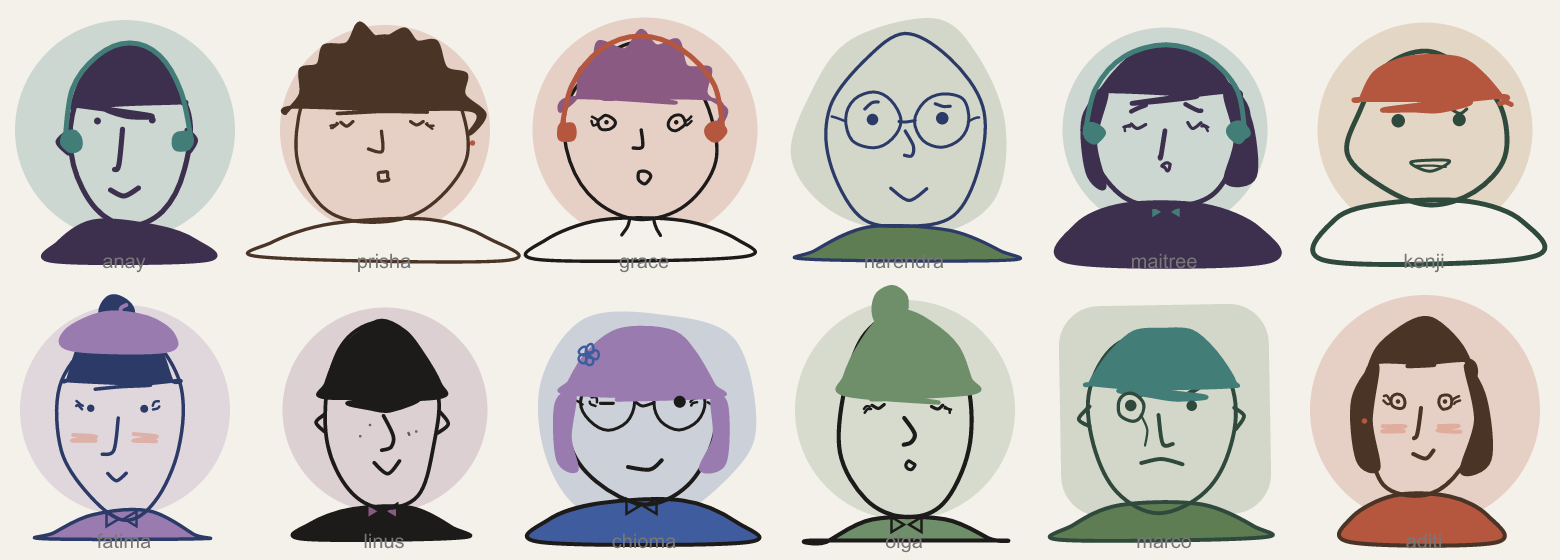
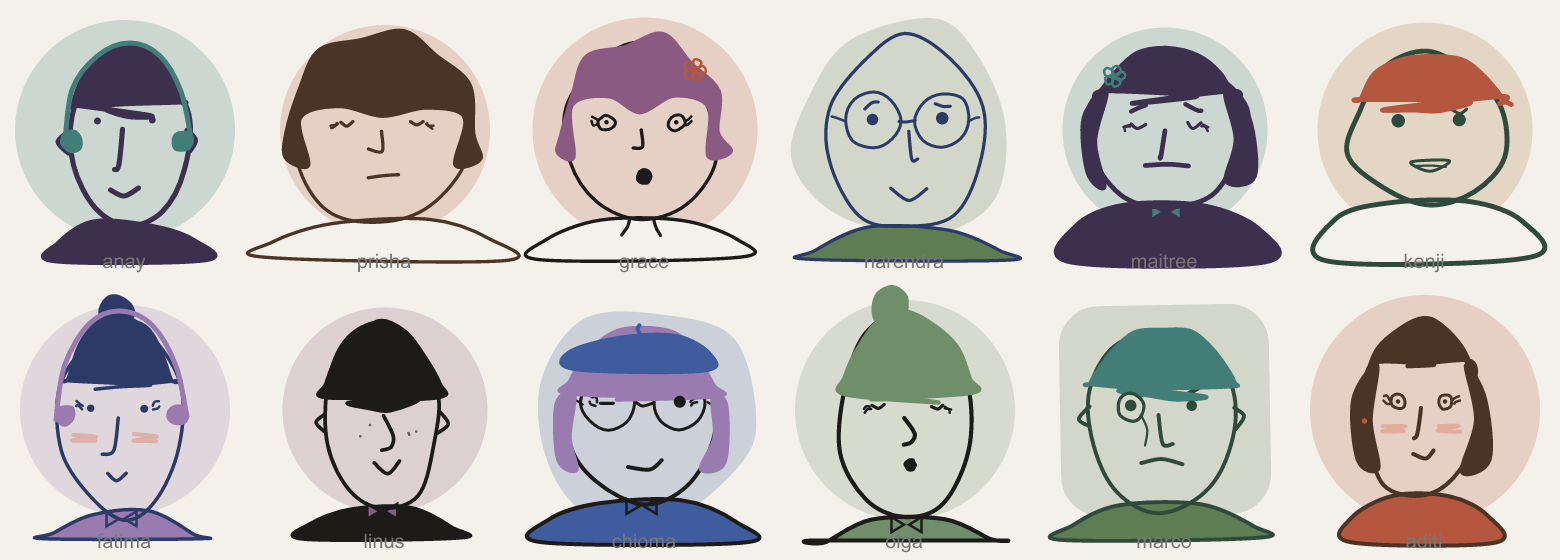
curls that read as hair: curly bob with side volume (fem), scalloped cap (masc), scalloped fringe, rounder open mouths

diff --git a/docs/dist/index.js b/docs/dist/index.js
@@ -335,12 +335,12 @@ function build(seed, options = {}) {
         m === "sad" || m === "grumpy" ? (chance(rm, 0.4) ? "line" : "frown") :
             m === "surprised" ? "o" :
                 m === "wink" ? "smirk" :
-                    m === "sleepy" ? (chance(rm, 0.5) ? "line" : "o") :
+                    m === "sleepy" ? (chance(rm, 0.78) ? "line" : "o") :
                         seedMouth;
     const mx = xf + rand(rm, -1, 1);
     if (mk === "o") {
-        const orr = m === "surprised" ? rand(rm, 2.4, 3.6) : rand(rm, 1.5, 2.8);
-        out.push({ tag: "mouth", d: inkPath(rm, circlePts(mx, my, orr), { close: true, wobble: 0.5 }), width: 1.3 });
+        const orr = m === "surprised" ? rand(rm, 2.6, 3.8) : rand(rm, 1.9, 2.9);
+        out.push({ tag: "mouth", d: inkPath(rm, circlePts(mx, my, orr, 12), { close: true, wobble: 0.25 }), width: 1.2, fill: ink });
     }
     else if (mk === "smirk") {
         out.push({ tag: "mouth", d: inkPath(rm, [[mx - mw, my], [mx + mw * 0.3, my + 1], [mx + mw, my - rand(rm, 1.5, 3)]], { wobble: 0.6 }) });
@@ -493,24 +493,34 @@ function build(seed, options = {}) {
         }
     }
     else if (hairKind === "curls") {
-        // scalloped cloud hugging the skull, filled — reads as curly hair
+        // scalloped silhouette hugging the skull; fem gets curly-bob side volume
         const yl = hairline;
-        const cloud = [[cx - edgeX(yl) - 1.5, yl + 1]];
-        const bumps = Math.floor(rand(rha, 6, 8));
+        const sideDrop = fem ? cy + hh * rand(rha, 0.15, 0.35) : yl + 2;
+        const pts2 = [];
+        // left side rising: from side-drop up the left edge
+        pts2.push([cx - edgeX(sideDrop) - (fem ? rand(rha, 4, 7) : 1.5), sideDrop]);
+        const bumps = Math.floor(rand(rha, 7, 9));
         for (let i = 0; i <= bumps; i++) {
-            const a = Math.PI + ((i + 0.5) / (bumps + 1)) * Math.PI;
-            const rr = 1 + rand(rha, 0.1, 0.24); // bump amplitude
-            cloud.push([cx + Math.cos(a) * hw * rr, cy - Math.abs(Math.sin(a)) * (hh + rand(rha, 3, 7))]);
-            const a2 = Math.PI + ((i + 1) / (bumps + 1)) * Math.PI;
-            cloud.push([cx + Math.cos(a2) * hw * 1.0, cy - Math.abs(Math.sin(a2)) * (hh + 0.5)]);
+            const a = Math.PI + (i / bumps) * Math.PI;
+            const amp = 1 + (i % 2 === 0 ? rand(rha, 0.1, 0.17) : rand(rha, 0.01, 0.05)); // alternating lobes
+            pts2.push([cx + Math.cos(a) * hw * amp, cy - Math.abs(Math.sin(a)) * (hh + (i % 2 === 0 ? rand(rha, 3, 6) : 0.5))]);
         }
-        cloud.push([cx + edgeX(yl) + 1.5, yl + 1]);
-        const back3 = [];
-        for (let i = 3; i >= 1; i--) {
-            const t = i / 4;
-            back3.push([cx - edgeX(yl) + t * 2 * edgeX(yl), yl + 3.5 + rand(rha, -2, 2)]);
+        pts2.push([cx + edgeX(sideDrop) + (fem ? rand(rha, 4, 7) : 1.5), sideDrop]);
+        if (fem) {
+            // tuck back in under the curls at cheek level
+            pts2.push([cx + edgeX(sideDrop) * 0.9, sideDrop + 3]);
         }
-        out.push({ d: inkPath(rha, [...cloud, ...back3.reverse()], { close: true, wobble: 1.3 }), fill: hairInk, stroke: hairInk });
+        // scalloped fringe back across the forehead (dips, never a flat brim)
+        const seg3 = 4;
+        for (let i = seg3; i >= 0; i--) {
+            const t = i / seg3;
+            const bx = cx - edgeX(yl) + (1 - t) * 0 + t * 2 * edgeX(yl); // right to left
+            const dip = (i % 2 === 0 ? rand(rha, 3.5, 5.5) : rand(rha, 0.5, 1.5));
+            pts2.push([bx, yl + dip]);
+        }
+        if (fem)
+            pts2.push([cx - edgeX(sideDrop) * 0.9, sideDrop + 3]);
+        out.push({ d: inkPath(rha, pts2, { close: true, wobble: 1.2 }), fill: hairInk, stroke: hairInk });
     }
     else if (hairKind === "wisps") {
         for (let i = 0; i < 3; i++) {

diff --git a/src/index.ts b/src/index.ts
@@ -367,12 +367,12 @@ function build(seed: string, options: FaceOptions = {}): FaceParts {
     m === "sad" || m === "grumpy" ? (chance(rm, 0.4) ? "line" : "frown") :
     m === "surprised" ? "o" :
     m === "wink" ? "smirk" :
-    m === "sleepy" ? (chance(rm, 0.5) ? "line" : "o") :
+    m === "sleepy" ? (chance(rm, 0.78) ? "line" : "o") :
     seedMouth;
   const mx = xf + rand(rm, -1, 1);
   if (mk === "o") {
-    const orr = m === "surprised" ? rand(rm, 2.4, 3.6) : rand(rm, 1.5, 2.8);
-    out.push({ tag: "mouth", d: inkPath(rm, circlePts(mx, my, orr), { close: true, wobble: 0.5 }), width: 1.3 });
+    const orr = m === "surprised" ? rand(rm, 2.6, 3.8) : rand(rm, 1.9, 2.9);
+    out.push({ tag: "mouth", d: inkPath(rm, circlePts(mx, my, orr, 12), { close: true, wobble: 0.25 }), width: 1.2, fill: ink });
   } else if (mk === "smirk") {
     out.push({ tag: "mouth", d: inkPath(rm, [[mx - mw, my], [mx + mw * 0.3, my + 1], [mx + mw, my - rand(rm, 1.5, 3)]], { wobble: 0.6 }) });
   } else if (mk === "smile" && chance(rm, m === "happy" ? 0.35 : 0.12)) { // toothy grin
@@ -518,24 +518,33 @@ function build(seed: string, options: FaceOptions = {}): FaceParts {
       out.push({ d: line(rha, [bx, by], [ex2, ey2], 0.4), width: 1.5, stroke: hairInk });
     }
   } else if (hairKind === "curls") {
-    // scalloped cloud hugging the skull, filled — reads as curly hair
+    // scalloped silhouette hugging the skull; fem gets curly-bob side volume
     const yl = hairline;
-    const cloud: Pt[] = [[cx - edgeX(yl) - 1.5, yl + 1]];
-    const bumps = Math.floor(rand(rha, 6, 8));
+    const sideDrop = fem ? cy + hh * rand(rha, 0.15, 0.35) : yl + 2;
+    const pts2: Pt[] = [];
+    // left side rising: from side-drop up the left edge
+    pts2.push([cx - edgeX(sideDrop) - (fem ? rand(rha, 4, 7) : 1.5), sideDrop]);
+    const bumps = Math.floor(rand(rha, 7, 9));
     for (let i = 0; i <= bumps; i++) {
-      const a = Math.PI + ((i + 0.5) / (bumps + 1)) * Math.PI;
-      const rr = 1 + rand(rha, 0.1, 0.24); // bump amplitude
-      cloud.push([cx + Math.cos(a) * hw * rr, cy - Math.abs(Math.sin(a)) * (hh + rand(rha, 3, 7))]);
-      const a2 = Math.PI + ((i + 1) / (bumps + 1)) * Math.PI;
-      cloud.push([cx + Math.cos(a2) * hw * 1.0, cy - Math.abs(Math.sin(a2)) * (hh + 0.5)]);
+      const a = Math.PI + (i / bumps) * Math.PI;
+      const amp = 1 + (i % 2 === 0 ? rand(rha, 0.1, 0.17) : rand(rha, 0.01, 0.05)); // alternating lobes
+      pts2.push([cx + Math.cos(a) * hw * amp, cy - Math.abs(Math.sin(a)) * (hh + (i % 2 === 0 ? rand(rha, 3, 6) : 0.5))]);
     }
-    cloud.push([cx + edgeX(yl) + 1.5, yl + 1]);
-    const back3: Pt[] = [];
-    for (let i = 3; i >= 1; i--) {
-      const t = i / 4;
-      back3.push([cx - edgeX(yl) + t * 2 * edgeX(yl), yl + 3.5 + rand(rha, -2, 2)]);
+    pts2.push([cx + edgeX(sideDrop) + (fem ? rand(rha, 4, 7) : 1.5), sideDrop]);
+    if (fem) {
+      // tuck back in under the curls at cheek level
+      pts2.push([cx + edgeX(sideDrop) * 0.9, sideDrop + 3]);
     }
-    out.push({ d: inkPath(rha, [...cloud, ...back3.reverse()], { close: true, wobble: 1.3 }), fill: hairInk, stroke: hairInk });
+    // scalloped fringe back across the forehead (dips, never a flat brim)
+    const seg3 = 4;
+    for (let i = seg3; i >= 0; i--) {
+      const t = i / seg3;
+      const bx = cx - edgeX(yl) + (1 - t) * 0 + t * 2 * edgeX(yl); // right to left
+      const dip = (i % 2 === 0 ? rand(rha, 3.5, 5.5) : rand(rha, 0.5, 1.5));
+      pts2.push([bx, yl + dip]);
+    }
+    if (fem) pts2.push([cx - edgeX(sideDrop) * 0.9, sideDrop + 3]);
+    out.push({ d: inkPath(rha, pts2, { close: true, wobble: 1.2 }), fill: hairInk, stroke: hairInk });
   } else if (hairKind === "wisps") {
     for (let i = 0; i < 3; i++) {
       const bx = cx + rand(rha, -8, 8);

diff --git a/scripts/prisha.ts b/scripts/prisha.ts
@@ -1,0 +1,15 @@
+import { face } from "../src/index.js";
+import { Resvg } from "@resvg/resvg-js";
+import { writeFileSync } from "node:fs";
+const cases: [string, any][] = [
+  ["prisha", {}], ["prisha", { mood: "sleepy" }], ["ada", {}], ["keisha", {}],
+  ["marcus", {}], ["andre", {}], ["prisha", { bust: true, backdrop: true }], ["zoya", { mood: "sleepy" }],
+];
+let inner = "";
+cases.forEach(([s, o], i) => {
+  const x = (i % 8) * 120;
+  inner += `<g transform="translate(${x},0) scale(1.15)">${face(s, o).replace(/^<svg[^>]*>/, "").replace(/<\/svg>$/, "")}</g>`;
+  inner += `<text x="${x + 58}" y="128" font-family="monospace" font-size="9" text-anchor="middle" fill="#777">${s}${o.mood ? " (asleep)" : ""}</text>`;
+});
+writeFileSync("prisha.png", new Resvg(`<svg xmlns="http://www.w3.org/2000/svg" width="960" height="136"><rect width="960" height="136" fill="#f4f1ea"/>${inner}</svg>`, { fitTo: { mode: "width", value: 1920 } }).render().asPng());
+console.log("ok");
